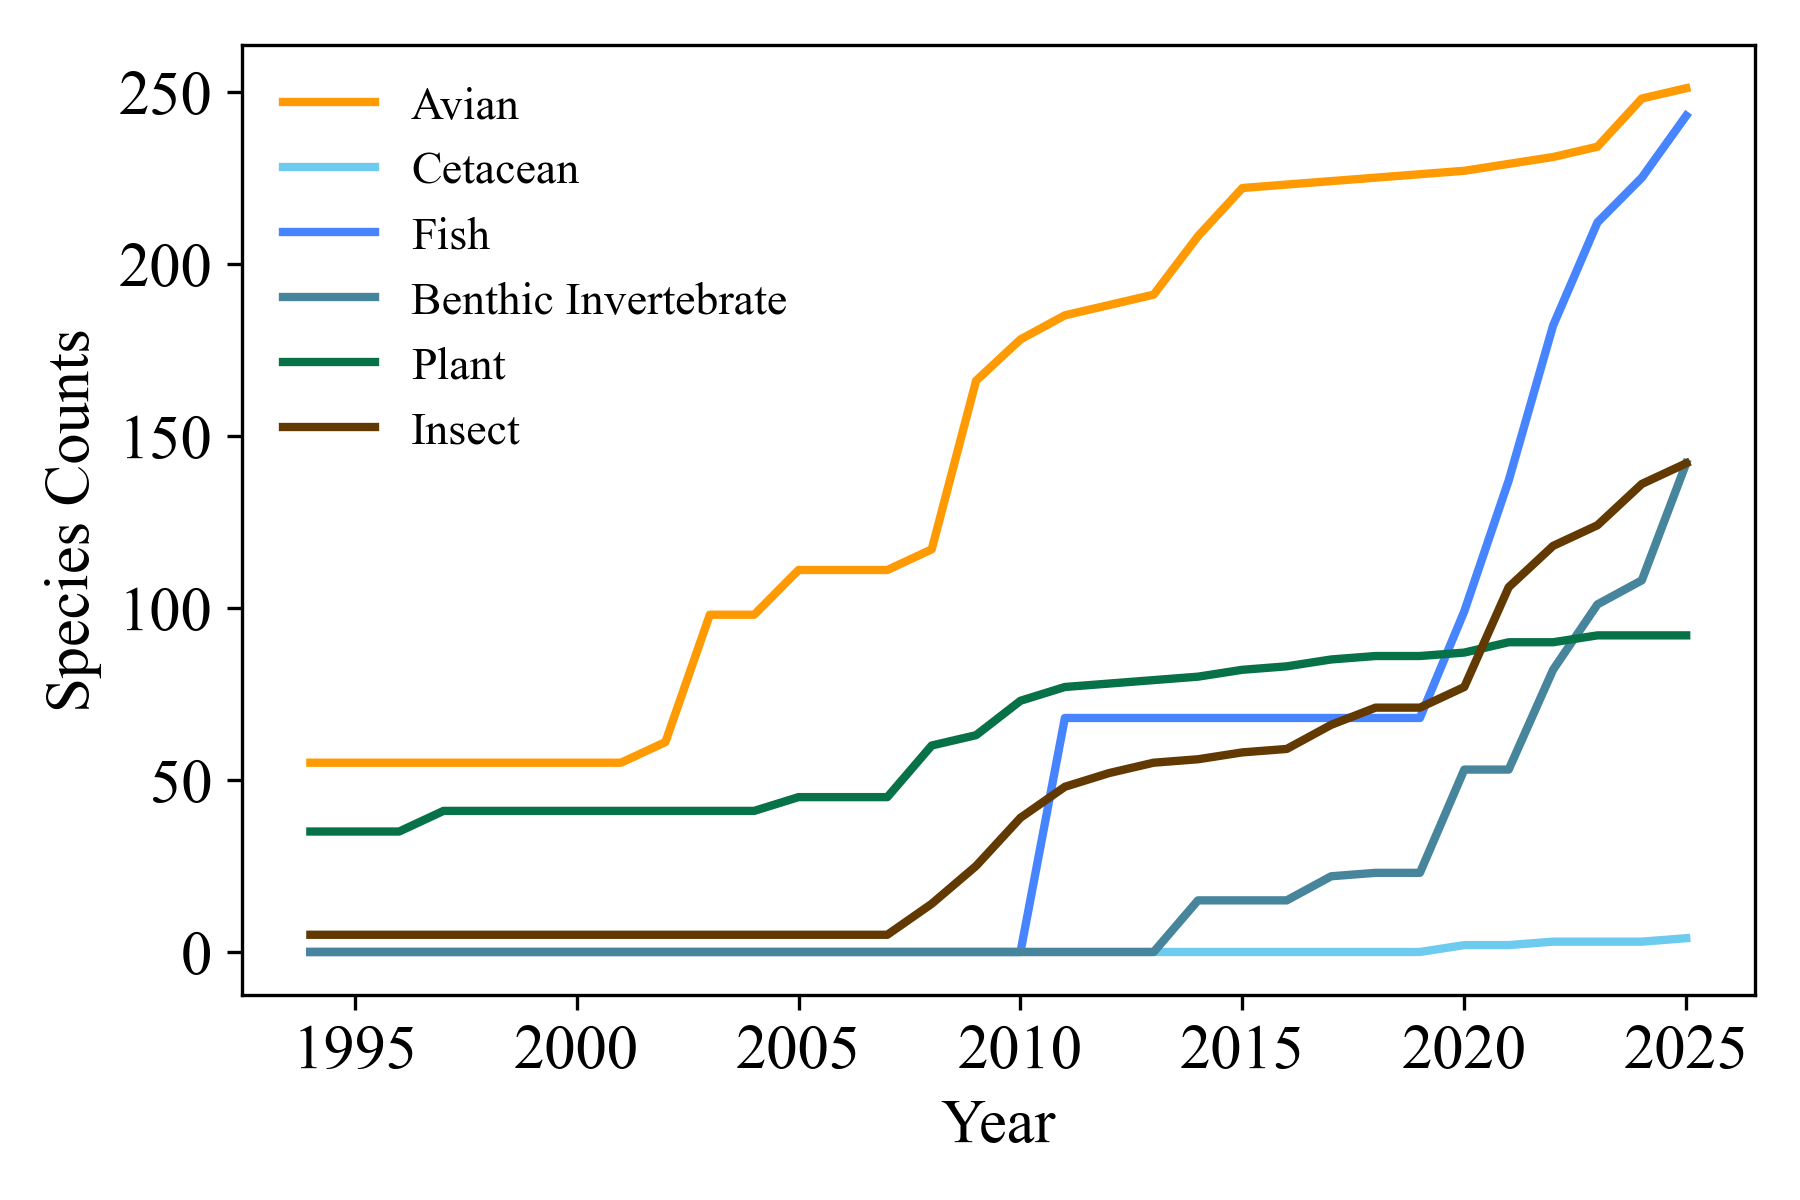
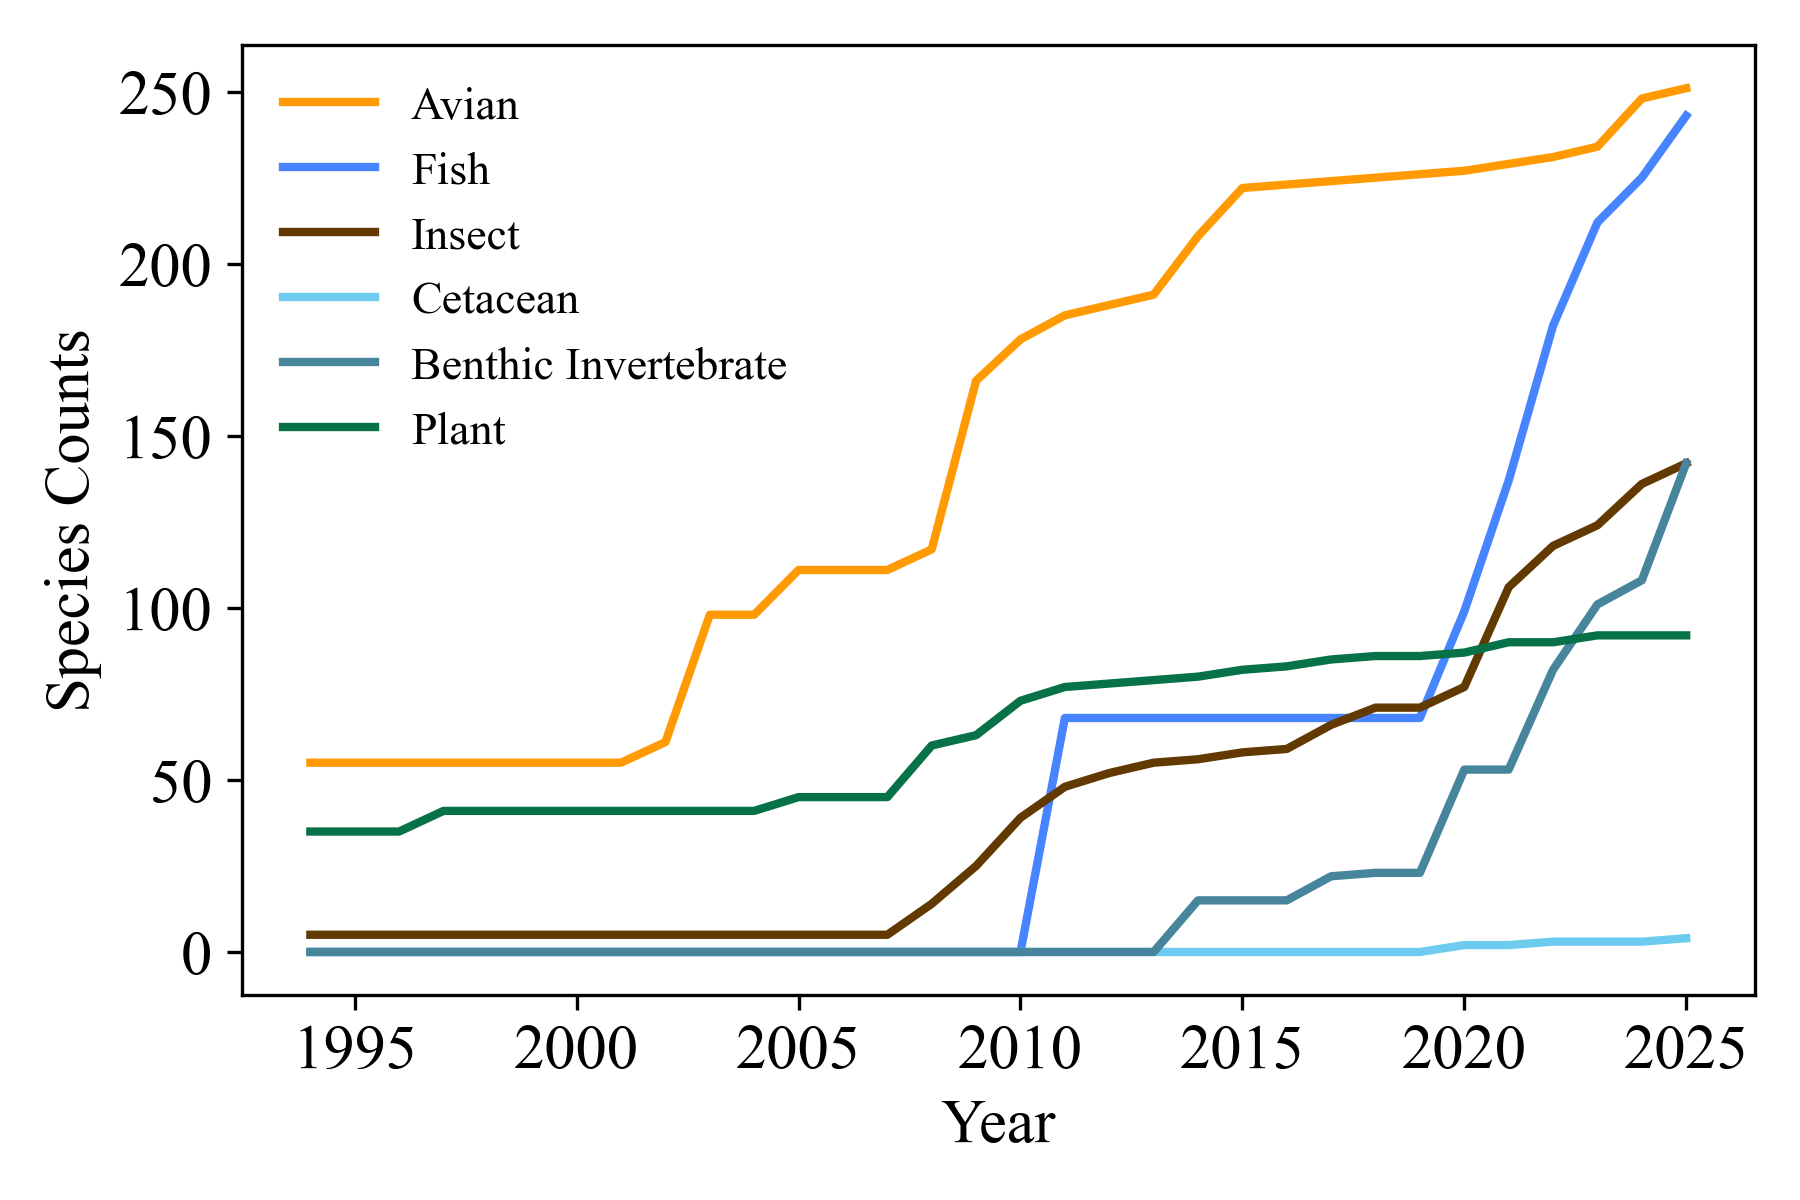
add smoothed species accumulation curve.

Changed region(s): [[0.1556, 0.185, 0.4356, 0.37], [0.1556, 0.1233, 0.3111, 0.1542]]

diff --git a/scripts/bdj_gbif_mhhp_data_2026.py b/scripts/bdj_gbif_mhhp_data_2026.py
@@ -10,6 +10,38 @@ Licensed under the CC BY 4.0 License.
 """
 
 
+
+#% conda install -c rpy2
+#% conda install -c r-vegan
+
+
+
+
+# =============================================================================
+# 
+# 
+# Oksanen, J., Simpson, G. L., Blanchet, F. G., Kindt, R., Legendre, P., Minchin, P. R., ... & Wagner, H. (2024).
+# vegan: Community Ecology Package. R package version 2.6-4. https://CRAN.R-project.org/package=vegan
+# 
+#
+#
+#  Sample-based 與 Individual-based
+#  Gotelli, N. J., & Colwell, R. K. (2001). Quantifying biodiversity: 
+#  procedures and pitfalls in the measurement and comparison of species richness. Ecology Letters, 4(4), 379-391.
+# 
+#
+# 針對 method = "exact" (基於樣本的精確稀疏化公式) 的數學證明：
+# Chiarucci, A., Bacaro, G., Rocchini, D., & Fattorini, L. (2008). 
+# Discovering and rediscovering the sample-based rarefaction formula in the ecological literature. 
+# Community Ecology, 9(1), 121-123.
+#
+#
+#
+# =============================================================================
+
+
+
+
 #%% Import Packages, Input files
 
 import os
@@ -20,6 +52,21 @@ import chardet
 import matplotlib
 import matplotlib.pyplot as plt
 from matplotlib.ticker import MaxNLocator
+
+
+# 1. 強制設定 R_HOME 為你 Conda 虛擬環境中的 R 資料夾
+# (注意前面的 r 不能省略，這能避免 Windows 反斜線 \ 造成的路徑辨識錯誤)
+os.environ['R_HOME'] = r'C:\Users\cetae\anaconda3\envs\env_geo\Lib\R'
+
+# 2. 清除可能干擾的 R_USER 變數 (如果有設定的話，讓它重置)
+if 'R_USER' in os.environ:
+    del os.environ['R_USER']
+
+
+# 在 Python 裡面直接召喚 R 的 vegan！
+import rpy2.robjects.packages as rpackages
+from rpy2.robjects import pandas2ri
+
 
 
 matplotlib.rcParams['font.family'] = 'Times New Roman'
@@ -206,9 +253,126 @@ for file_id in range(1,10): #range(0,len(sheet_name)-1)
         data0['taxonRank'] = data0['taxonRank'].str.strip().str.lower()
         filter_species= np.logical_or(data0['taxonRank']=='species', data0['taxonRank']=='subspecies')
         len(data0[filter_species])/len(data0)
-        data1 = data0[filter_species]
+        data1 = data0[filter_species].copy()
+        
+        
+        
+        
+        
+        
+        #Sample-based accumulation curve ()
+        data1_community_quan = pd.crosstab(data1['year'],data1['name_species'])
+        data1_community_boolean = (data1_community_quan>0).astype('int')
 
+
+        # 1).Convert from pandas to R
+        pandas2ri.activate()
+        
+        # 2). import 'vegan' package
+        vegan = rpackages.importr('vegan')
+        stats = rpackages.importr('stats')
+        
+        
+        # 3). species accumulation curve_random/exact
+        if len(data1_community_boolean)>1:
+            sp1 = vegan.specaccum(data1_community_boolean, method= 'random')
+            sp2 = vegan.specaccum(data1_community_boolean, method= 'collector')
+            sp3 = vegan.specaccum(data1_community_boolean, method= 'exact')
             
+        #plot(sp1, ci.type="poly", col="blue", lwd=2, ci.lty=0, ci.col="lightblue")
+        
+        
+        # 步驟 4：把 R 的結果萃取出來，轉成 Python 的 Numpy 陣列
+        # ==========================================
+        # 使用 .rx2() 抓出特定元素，並用 np.array() 把它們變成純數值
+        x_sites1 = np.array(sp1.rx2('sites'))
+        y_richness1 = np.array(sp1.rx2('richness'))
+        y_sd1 = np.array(sp1.rx2('sd'))
+
+        x_sites2 = np.array(sp2.rx2('sites'))
+        y_richness2 = np.array(sp2.rx2('richness'))
+        y_sd2 = np.array(sp2.rx2('sd'))        
+        
+        
+        x_sites3 = np.array(sp3.rx2('sites'))
+        y_richness3 = np.array(sp3.rx2('richness'))
+        y_sd3 = np.array(sp3.rx2('sd'))
+        
+        
+        
+
+        # ==========================================
+        # 步驟 5：變成 Pandas DataFrame 方便檢視與輸出
+        # ==========================================
+        sac_results = pd.DataFrame({
+            'Years': x_sites1,
+            'Richness': y_richness1,
+            'SD': y_sd1
+        })
+        
+        print("==== 物種累積曲線計算結果 ====")
+        print(sac_results.head()) # 先偷看前五筆資料
+        
+        # ==========================================
+        # 步驟 6：使用 Matplotlib 畫出帶有標準差的 SAC 圖
+        # ==========================================
+
+        figr, axr = plt.subplots(1,1,figsize=(10, 6))
+        
+        # plot curve
+        axr.plot(x_sites1, y_richness1, color='#1f77b4', marker='o', linewidth=2, label='Species Accumulation with Permutations.')
+        axr.plot(x_sites2, y_richness2, color='black', marker='o', linewidth=2, label='Species Accumulation in Survey Order')
+        axr.plot(x_sites3, y_richness3, color='black', marker='o', linewidth=2, label='Species Accumulation in Exact Mode.')
+        
+        
+        mod1 = vegan.fitspecaccum(sp3, "lomolino")
+        
+        mod2 = vegan.fitspecaccum(sp3, "asymp")
+        
+        mod3 = vegan.fitspecaccum(sp3, "michaelis-menten")
+        
+        #stats.sapply(mods1.models, AIC)
+        
+        coeffs1 = stats.coef(mod1)
+        coeffs2 = stats.coef(mod2)
+        coeffs3 = stats.coef(mod3)
+        tuple(coeffs1.names)
+        
+        
+        # plot confidence range
+        # alpha=0.2 代表設定陰影的透明度為 20%
+        axr.fill_between(x_sites1, 
+                         y_richness1 - y_sd1, 
+                         y_richness1 + y_sd1, 
+                         color='#1f77b4', alpha=0.2, label='± 1 Standard Deviation')
+        
+        
+        axr.fill_between(x_sites3, 
+                          y_richness3 - y_sd3, 
+                          y_richness3 + y_sd3, 
+                          color='red', alpha=0.2, label='± 1 Standard Deviation')
+        
+        # 設定圖表的標題與軸標籤
+        axr.set_title(f'The Species Accumulation Curve of {content[file_id][2:-18]}', fontsize=14)
+        axr.set_xlabel('Number of Sampling Years', fontsize=12)
+        axr.set_ylabel('Cumulative Counts of Species', fontsize=12)
+        
+        # 強制 X 軸顯示整數 (因為年份不能是小數)
+        plt.gca().xaxis.set_major_locator(plt.MaxNLocator(integer=True))
+        
+        # 顯示網格線與圖例
+        plt.grid(True, linestyle='--', alpha=0.6)
+        plt.legend(loc='lower right')
+        
+        # 將圖表顯示出來！
+        plt.show()
+                
+
+
+
+
+
+
 
         #1. Annual Species Counts
         data_taxon_yearly = data1.groupby(['year'])['name_species'].nunique(dropna=True).to_frame()
